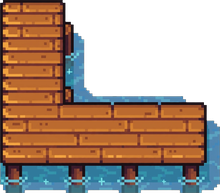
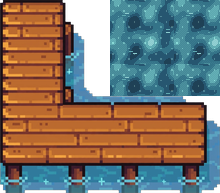
Dock + extendable homes + full world reset (#22)
2x2 dock with a water corner (auto-flipped to the shore, water baked into
the empty quadrant), profession homes extendable to hold up to 5 villagers,
and a full world reset (WORLD_EPOCH 2->3, shared room -r3->-r4). Accounts
wiped separately via the D1 players-table delete.

Changed region(s): [[0.4909, 0.0, 1.0, 0.4974]]

diff --git a/emberpine-valley.html b/emberpine-valley.html
@@ -375,7 +375,7 @@
 // match starts completely fresh — every emberpine:* key (save, legacy, identity,
 // account token) is discarded once, then the marker is stamped. Runs before anything
 // reads localStorage so even the ISLAND constant below sees the post-wipe state.
-const WORLD_EPOCH=2;
+const WORLD_EPOCH=3;
 try{if(+localStorage.getItem('emberpine:epoch')!==WORLD_EPOCH){
   Object.keys(localStorage).filter(k=>k.startsWith('emberpine:')).forEach(k=>localStorage.removeItem(k));
   localStorage.setItem('emberpine:epoch',String(WORLD_EPOCH));
@@ -589,7 +589,7 @@ const BUILDS={
   sawmill:{name:'Sawmill',ico:'🪚',cost:{wood:20},desc:'2 wood → 1 plank / 4s',rate:4},
   smelter:{name:'Smelter',ico:'🔥',cost:{stone:20,wood:10},desc:'1 ore + 1 wood → 1 ingot / 6s',rate:6},
   farm:{name:'Farm',ico:'🌾',cost:{wood:10},desc:'A farmer villager grows wheat here'},
-  dock:{name:'Dock',ico:'🎣',cost:{plank:8},desc:'A fisher villager casts lines here — place it beside water'},
+  dock:{name:'Dock',ico:'🎣',cost:{plank:8},desc:'A fisher villager casts lines here — one corner reaches over the water'},
   bakery:{name:'Bakery',ico:'🍞',cost:{plank:12,stone:10},desc:'2 wheat → bread · wheat + 2 berry + egg → pie / 5s',rate:5},
   workshop:{name:'Workshop',ico:'🛠️',cost:{plank:16,ingot:4},desc:'2 plank + ingot → tool (villagers 60% faster) · 2 leather + rope + ingot → backpack (+10 storage) / 8s',rate:8},
   kiln:{name:'Kiln',ico:'🔥',cost:{stone:20,wood:10},desc:'2 clay + 1 wood → brick · 2 wood → charcoal / 5s',rate:5},
@@ -644,13 +644,14 @@ const BUILDS={
   gnome:{name:'Garden Gnome',ico:'🧙',cost:{stone:1,ore:1},desc:'He judges silently',decor:5},
 };
 // ===== building footprints (tiles wide × tall). Anchor tile is the TOP-LEFT of the footprint. =====
-// AI-worked tiles (farm/dock) and small props stay 1×1; homes/production/pens/big-civic get room to breathe.
+// The 1×1 farm plot & small props stay 1×1; homes/production/pens/big-civic get room to breathe.
+// The dock is 2×2 with one corner over water (a pier reaching the shore).
 const FOOT={
   cottage:[2,2],house:[2,2],manor:[2,2],
   lumberlodge:[2,2],foragerhut:[2,2],farmhouse:[2,2],fishershack:[2,2],masonhouse:[2,2],butchery:[2,2],shepherdhut:[2,2],haulerpost:[2,2],guardhouse:[2,2],
   toolsmithy:[2,2],weaponsmithy:[2,2],armory:[2,2],leatherhouse:[2,2],library:[2,2],clerichouse:[2,2],fletcherhouse:[2,2],maproom:[2,2],
   sawmill:[2,2],smelter:[2,2],bakery:[2,2],workshop:[2,2],kiln:[2,2],glassworks:[2,2],forge:[2,2],loom:[2,2],gilder:[2,2],fishmonger:[2,2],smokehouse:[2,2],
-  sheeppen:[2,2],pigpen:[2,2],
+  sheeppen:[2,2],pigpen:[2,2],dock:[2,2],
   tavern:[2,2],plaza:[2,2],chapel:[2,2],market:[2,2],warehouse:[2,2],well:[2,2],
   watchtower:[1,2],hall:[2,2],
 };
@@ -1006,7 +1007,11 @@ const RECIPES={
 };
 function countB(type){let n=0;for(const k in S.buildings)if(S.buildings[k].type===type&&S.buildings[k].mine)n++;return n}
 function anyProfHome(){for(const k in S.buildings){const b=S.buildings[k];if(b.mine&&BUILDS[b.type]&&BUILDS[b.type].prof)return true}return false}
-function popCap(){let cap=2;for(const k in S.buildings){const b=S.buildings[k];if(b.mine&&BUILDS[b.type]&&BUILDS[b.type].home)cap+=BUILDS[b.type].cap}return cap}
+// a home's effective bed count: base cap + one per upgrade level, capped at 5
+function homeCap(b){const B=BUILDS[b.type];if(!B||!B.home)return 0;return Math.min(5,(B.cap||1)+((b.lvl||1)-1))}
+// cost to extend a home by one bed (null when already at 5) — scales with level
+function homeUpCost(b){const B=BUILDS[b.type];if(!B||!B.prof||homeCap(b)>=5)return null;const l=b.lvl||1;return{plank:6+l*4,stone:2+l*3,bread:l*2}}
+function popCap(){let cap=2;for(const k in S.buildings){const b=S.buildings[k];if(b.mine&&BUILDS[b.type]&&BUILDS[b.type].home)cap+=homeCap(b)}return cap}
 function homeless(){return S.villagers.filter(v=>!v.home||(v.home!=='hall'&&!S.buildings[v.home]))}
 function professionAt(bKey){   // the job a home confers, or null for legacy/hall homes
   const b=bKey==='hall'?null:S.buildings[bKey];
@@ -1018,7 +1023,7 @@ function stampProf(v,bKey){   // give a villager the profession of the home they
 }
 function moveIn(bKey){
   const b=S.buildings[bKey];if(!b||!BUILDS[b.type]||!BUILDS[b.type].home)return;
-  let free=BUILDS[b.type].cap - S.villagers.filter(v=>v.home===bKey).length - S.spawnQ.filter(q=>q.home===bKey).length;
+  let free=homeCap(b) - S.villagers.filter(v=>v.home===bKey).length - S.spawnQ.filter(q=>q.home===bKey).length;
   if(free<=0)return;
   const hs=homeless().sort((a,c)=>((a.x-b.x)**2+(a.y-b.y)**2)-((c.x-b.x)**2+(c.y-b.y)**2));
   for(const v of hs){if(free<=0)break;v.home=bKey;stampProf(v,bKey);free--}
@@ -1162,18 +1167,24 @@ function placeBuilding(type,x,y){
   const B=BUILDS[type];
   const[fw,fh]=foot(type);
   if(!canAfford(B.cost)){toast('Not enough materials');return}
-  // every footprint tile must be on land, clear of resources/buildings, and not the Hall/Wonder/you
+  // dock: 2x2 straddling the shore - exactly one corner over water, the rest buildable land
+  const isDock=type==='dock'; let dockWC=-1;
+  if(isDock){ const cn=[[0,0],[1,0],[0,1],[1,1]]; let wn=0;
+    for(let i=0;i<4;i++)if(terrAt(x+cn[i][0],y+cn[i][1])===0){wn++;dockWC=i;}
+    if(wn!==1){toast('The dock needs one corner over water');return} }
+  // every footprint tile on land (dock water corner excepted), clear, not Hall/you
   for(let dy=0;dy<fh;dy++)for(let dx=0;dx<fw;dx++){
+    if(isDock&&terrAt(x+dx,y+dy)===0){if(buildingAt(x+dx,y+dy)){toast('Cannot build there');return}continue;}
     const tx=x+dx,ty=y+dy;
     if(terrAt(tx,ty)===0){toast(frozenNow()?'The ice is too thin to build on \u{1F9CA}':'Can\u2019t build on water');return}
     if(!walkable(tx,ty)||resAt(tx,ty)||buildingAt(tx,ty)||(tx===HALL.x&&ty===HALL.y)){toast('Can\u2019t build there \u2014 needs '+fw+'\u00d7'+fh+' clear tiles');return}
     if(type!=='path'&&Math.floor(S.me.x)===tx&&Math.floor(S.me.y)===ty){toast('You\u2019re standing there!');return}
   }
-  if(type==='dock'&&![[1,0],[-1,0],[0,1],[0,-1]].some(([dx,dy])=>terrAt(x+dx,y+dy)===0)){toast('The dock must touch water 🌊');return}
   for(const[k,v]of Object.entries(B.cost))S.inv[k]-=v;
   const rec={type,x,y,w:fw,h:fh,mine:true,bt:now()};
+  if(isDock)rec.wc=dockWC;
   S.buildings[key(x,y)]=rec;occDirty();syncBldSoon();
-  netSend({t:'bld',k:key(x,y),e:{t:rec.bt,type,w:fw,h:fh,owner:S.me.id,onm:S.me.name}});
+  netSend({t:'bld',k:key(x,y),e:{t:rec.bt,type,w:fw,h:fh,wc:isDock?dockWC:undefined,owner:S.me.id,onm:S.me.name}});
   if(B.home)moveIn(key(x,y));
   S.stats.b[type]=(S.stats.b[type]||0)+1;if(S.legacy){S.legacy.b[type]=(S.legacy.b[type]||0)+1;saveLegacySoon()}S.score+=15;sfx('build');spawnBurst(x,y,'#e8a33d',10);questTick();
   toast(B.name+' built!');
@@ -1679,7 +1690,12 @@ function drawBuilding(b,sx,sy,sz){
   if(img&&img.ready){
     shadow();
     const dh=W*img.naturalHeight/Math.max(1,img.naturalWidth);
-    cx.drawImage(img,sx,baseY-dh,W,dh);
+    if(b.type==='dock'&&b.wc!=null){ // mirror the pier so its water corner (art default: top-right) matches the shore
+      const fx=(b.wc===0||b.wc===2)?-1:1, fy=(b.wc===2||b.wc===3)?-1:1;
+      cx.save();cx.translate(sx+W/2,baseY-dh/2);cx.scale(fx,fy);cx.drawImage(img,-W/2,-dh/2,W,dh);cx.restore();
+    }else{
+      cx.drawImage(img,sx,baseY-dh,W,dh);
+    }
     fabStatus(b,sx,sy,sz);ghost(sx,baseY-dh,W,dh);
     return;
   }
@@ -1928,11 +1944,13 @@ function render(){
     const[fw,fh]=foot(S.buildSel);
     const sx=(hoverTile.x-S.cam.x)*TSZ+VW/2, sy=(hoverTile.y-S.cam.y)*TSZ+VH/2;
     let ok=true;   // whole footprint must be buildable
+    const gDock=S.buildSel==='dock';
+    if(gDock){ let wn=0; for(const [dx,dy] of [[0,0],[1,0],[0,1],[1,1]])if(terrAt(hoverTile.x+dx,hoverTile.y+dy)===0)wn++; if(wn!==1)ok=false; }
     for(let dy=0;dy<fh&&ok;dy++)for(let dx=0;dx<fw&&ok;dx++){
       const tx=hoverTile.x+dx,ty=hoverTile.y+dy;
+      if(gDock&&terrAt(tx,ty)===0){ if(buildingAt(tx,ty))ok=false; continue; } // dock's water corner is allowed
       if(!walkable(tx,ty)||resAt(tx,ty)||buildingAt(tx,ty)||(tx===HALL.x&&ty===HALL.y)||terrAt(tx,ty)===0)ok=false;
     }
-    if(S.buildSel==='dock')ok=ok&&[[1,0],[-1,0],[0,1],[0,-1]].some(([dx,dy])=>terrAt(hoverTile.x+dx,hoverTile.y+dy)===0);
     cx.fillStyle=ok?'rgba(232,163,61,.4)':'rgba(176,86,59,.45)';
     cx.fillRect(sx,sy,TSZ*fw,TSZ*fh);
     cx.strokeStyle='#2b2620';cx.strokeRect(sx,sy,TSZ*fw,TSZ*fh);
@@ -2493,9 +2511,14 @@ function openBuildingPopup(b,px,py){
     }else{
     const occ=S.villagers.filter(v=>v.home===key(b.x,b.y));
     const stLbl=v=>isInside(v)?'asleep 😴':({working:'working ⚒️',toWork:'heading to work 👣',toHall:'hauling 📦',toCrate:'stashing 📦',sleep:'dozing off 😴',idle:'resting'}[v.state]||'about town');
-    extra='<div class="desc" style="text-align:left">🛏️ Beds '+occ.length+'/'+B.cap+
+    extra='<div class="desc" style="text-align:left">🛏️ Beds '+occ.length+'/'+homeCap(b)+
       (occ.length?occ.map(v=>'<br><span style="color:'+v.color+'">●</span> <b>'+escapeHtml(v.name.split(' ')[0])+'</b> · '+JOBS[v.job].label+' Lv'+vLvl(v)+(v.perk?' ⭐':'')+(v.hungry?' 🥺':'')+'<br><span style="opacity:.65;font-size:11px">&nbsp;&nbsp;&nbsp;'+stLbl(v)+'</span>').join(''):'<br><span style="opacity:.7">Empty — settlers arriving</span>')+'</div>';
     if(occ.length)extra+='<button id="knockBtn" class="wgive">🚪 Knock</button>';
+    const huc=homeUpCost(b);   // extend a profession home to hold one more of the same villager (up to 5)
+    if(B.prof){
+      if(huc)extra+='<button id="homeUpBtn" class="wgive"'+(canAfford(huc)?'':' disabled')+'>🛏️ Extend to '+(homeCap(b)+1)+' beds · '+costStr(huc)+'</button>';
+      else extra+='<div class="desc" style="opacity:.7">🏡 Fully extended · 5 beds</div>';
+    }
     const next=NEXT_HOME[b.type];
     if(next&&S.town.tier>=(TIER[next]||0)){
       extra+='<button id="upgradeBtn" class="wgive"'+(canAfford(BUILDS[next].cost)?'':' disabled')+'>Upgrade → '+BUILDS[next].name+' · '+costStr(BUILDS[next].cost)+'</button>';
@@ -2583,6 +2606,19 @@ function openBuildingPopup(b,px,py){
     renderHUD();questTick();saveSoon();
     openBuildingPopup(b,px,py);
   };
+  const hup=popup.querySelector('#homeUpBtn');
+  if(hup)hup.onclick=()=>{
+    const uc=homeUpCost(b);if(!uc||!canAfford(uc))return;
+    for(const[k,v]of Object.entries(uc))S.inv[k]-=v;
+    b.lvl=(b.lvl||1)+1;S.score+=10;b.sv=(b.sv||15)+10;
+    sfx('build');spawnBurst(b.x,b.y,'#e8a33d',10);
+    moveIn(key(b.x,b.y));   // a new villager of this profession moves into the extra bed
+    toast('🛏️ '+BUILDS[b.type].name+' extended — now '+homeCap(b)+' beds');
+    occDirty();syncBldSoon();renderHUD();renderBuildBar();questTick();
+    netSend({t:'bld',k:key(b.x,b.y),e:{t:b.bt||0,type:b.type,w:bW(b),h:bH(b),wc:b.wc,lvl:b.lvl,owner:S.me.id,onm:S.me.name}});
+    saveSoon();
+    openBuildingPopup(b,px,py);
+  };
   const kb=popup.querySelector('#knockBtn');
   if(kb)kb.onclick=()=>{
     const occ=S.villagers.filter(v=>v.home===key(b.x,b.y));
@@ -2615,7 +2651,7 @@ function openBuildingPopup(b,px,py){
     b.type=next;S.stats.b[next]=(S.stats.b[next]||0)+1;if(S.legacy){S.legacy.b[next]=(S.legacy.b[next]||0)+1;saveLegacySoon()}S.score+=15;b.sv=(b.sv||15)+15;
     sfx('build');spawnBurst(b.x,b.y,'#e8a33d',10);
     moveIn(key(b.x,b.y));renderHUD();renderBuildBar();questTick();checkTownTier();syncBldSoon();saveSoon();
-    netSend({t:'bld',k:key(b.x,b.y),e:{t:b.bt||0,type:b.type,w:bW(b),h:bH(b),owner:S.me.id,onm:S.me.name}});
+    netSend({t:'bld',k:key(b.x,b.y),e:{t:b.bt||0,type:b.type,w:bW(b),h:bH(b),wc:b.wc,owner:S.me.id,onm:S.me.name}});
     openBuildingPopup(b,px,py);
   };
   const db=popup.querySelector('#demolishBtn');
@@ -2741,7 +2777,7 @@ async function saveGame(){
   await store.set('save-v1',{island:ISLAND,raid:S.raid,inv:S.inv,name:S.me.name,id:S.me.id,x:S.me.x,y:S.me.y,score:S.score,won:S.won,msgShown:S.msgShown,quest:S.quest,stats:S.stats,muted:S.muted,wonderRewarded:!!S.wonderRewarded,
     monu:S.monu, playSec:S.playSec, town:S.town, lastMeal:S.lastMeal,
     villagers:S.villagers.map(v=>({name:v.name,color:v.color,job:v.job,hasTool:v.hasTool,xp:v.xp||0,txp:v.txp||0,home:v.home||null,hungry:!!v.hungry,perk:v.perk||null})),
-    buildings:Object.values(S.buildings).filter(b=>b.mine).map(b=>({type:b.type,x:b.x,y:b.y,w:bW(b),h:bH(b),store:b.store,sv:b.sv,bt:b.bt||0,lvl:b.lvl||1}))});
+    buildings:Object.values(S.buildings).filter(b=>b.mine).map(b=>({type:b.type,x:b.x,y:b.y,w:bW(b),h:bH(b),wc:b.wc,store:b.store,sv:b.sv,bt:b.bt||0,lvl:b.lvl||1}))});
 }
 async function loadGame(){
   let s=await store.get('save-v1');
@@ -2820,7 +2856,7 @@ function applyBldEntry(k,e){   // shared merge rules for one tile entry (poll + 
   if(!cur||(!cur.mine&&(cur.type!==e.type||(cur.lvl||1)!==(e.lvl||1)||(cur.w||1)!==(e.w||1)))){
     const[x,y]=k.split(',').map(Number);
     // missing w,h means a pre-footprint client/placement → 1×1 (what that client sees), never overlap
-    S.buildings[k]={type:e.type,x,y,w:e.w||1,h:e.h||1,mine:false,owner:e.owner,onm:e.onm,bt:e.t||0,lvl:e.lvl||1};
+    S.buildings[k]={type:e.type,x,y,w:e.w||1,h:e.h||1,wc:e.wc,mine:false,owner:e.owner,onm:e.onm,bt:e.t||0,lvl:e.lvl||1};
     occDirty();
     return true;
   }
@@ -2837,7 +2873,7 @@ async function syncBuildings(){
       if(!e.rm&&e.owner===S.me.id&&(!S.buildings[k]||!S.buildings[k].mine)){m[k]={rm:now(),owner:S.me.id};dirty=true}}
     for(const k in S.buildings){const b=S.buildings[k];if(!b.mine)continue;
       const e=m[k];
-      if(!e||e.rm||e.owner!==S.me.id||e.type!==b.type||(e.lvl||1)!==(b.lvl||1)){m[k]={t:b.bt||0,type:b.type,w:bW(b),h:bH(b),lvl:b.lvl||1,owner:S.me.id,onm:S.me.name};dirty=true}}
+      if(!e||e.rm||e.owner!==S.me.id||e.type!==b.type||(e.lvl||1)!==(b.lvl||1)){m[k]={t:b.bt||0,type:b.type,w:bW(b),h:bH(b),wc:b.wc,lvl:b.lvl||1,owner:S.me.id,onm:S.me.name};dirty=true}}
     if(dirty)await store.set('bld',m,true);
     if(changed){renderBuildBar();beautyDirty()}
   }catch(e){}
@@ -3108,11 +3144,11 @@ let wsChat=[],lastStoreMsgs=[],netGiftSeen={};
 function netConnect(){
   if(!NET.host||NET.ws)return;
   try{
-    const w=new WebSocket(NET.host.replace(/\/+$/,'')+'/party/'+encodeURIComponent(SEED_STR+'-r3'));   // -r3: fresh shared world for the accounts update (old rooms go dormant)
+    const w=new WebSocket(NET.host.replace(/\/+$/,'')+'/party/'+encodeURIComponent(SEED_STR+'-r4'));   // -r4: fresh shared world (full reset; old rooms go dormant)
     NET.ws=w;
     w.onopen=()=>{NET.ok=true;NET.tries=0;toast('\u{1F517} Connected to the valley relay');
       netSendPos();
-      for(const k in S.buildings){const b=S.buildings[k];if(b.mine)netSend({t:'bld',k,e:{t:b.bt||0,type:b.type,w:bW(b),h:bH(b),owner:S.me.id,onm:S.me.name}})}
+      for(const k in S.buildings){const b=S.buildings[k];if(b.mine)netSend({t:'bld',k,e:{t:b.bt||0,type:b.type,w:bW(b),h:bH(b),wc:b.wc,owner:S.me.id,onm:S.me.name}})}
     };
     w.onclose=()=>{const was=NET.ok;NET.ok=false;NET.ws=null;
       if(was)toast('\u{1F50C} Relay connection lost — falling back to slow sync');

diff --git a/index.html b/index.html
@@ -375,7 +375,7 @@
 // match starts completely fresh — every emberpine:* key (save, legacy, identity,
 // account token) is discarded once, then the marker is stamped. Runs before anything
 // reads localStorage so even the ISLAND constant below sees the post-wipe state.
-const WORLD_EPOCH=2;
+const WORLD_EPOCH=3;
 try{if(+localStorage.getItem('emberpine:epoch')!==WORLD_EPOCH){
   Object.keys(localStorage).filter(k=>k.startsWith('emberpine:')).forEach(k=>localStorage.removeItem(k));
   localStorage.setItem('emberpine:epoch',String(WORLD_EPOCH));
@@ -589,7 +589,7 @@ const BUILDS={
   sawmill:{name:'Sawmill',ico:'🪚',cost:{wood:20},desc:'2 wood → 1 plank / 4s',rate:4},
   smelter:{name:'Smelter',ico:'🔥',cost:{stone:20,wood:10},desc:'1 ore + 1 wood → 1 ingot / 6s',rate:6},
   farm:{name:'Farm',ico:'🌾',cost:{wood:10},desc:'A farmer villager grows wheat here'},
-  dock:{name:'Dock',ico:'🎣',cost:{plank:8},desc:'A fisher villager casts lines here — place it beside water'},
+  dock:{name:'Dock',ico:'🎣',cost:{plank:8},desc:'A fisher villager casts lines here — one corner reaches over the water'},
   bakery:{name:'Bakery',ico:'🍞',cost:{plank:12,stone:10},desc:'2 wheat → bread · wheat + 2 berry + egg → pie / 5s',rate:5},
   workshop:{name:'Workshop',ico:'🛠️',cost:{plank:16,ingot:4},desc:'2 plank + ingot → tool (villagers 60% faster) · 2 leather + rope + ingot → backpack (+10 storage) / 8s',rate:8},
   kiln:{name:'Kiln',ico:'🔥',cost:{stone:20,wood:10},desc:'2 clay + 1 wood → brick · 2 wood → charcoal / 5s',rate:5},
@@ -644,13 +644,14 @@ const BUILDS={
   gnome:{name:'Garden Gnome',ico:'🧙',cost:{stone:1,ore:1},desc:'He judges silently',decor:5},
 };
 // ===== building footprints (tiles wide × tall). Anchor tile is the TOP-LEFT of the footprint. =====
-// AI-worked tiles (farm/dock) and small props stay 1×1; homes/production/pens/big-civic get room to breathe.
+// The 1×1 farm plot & small props stay 1×1; homes/production/pens/big-civic get room to breathe.
+// The dock is 2×2 with one corner over water (a pier reaching the shore).
 const FOOT={
   cottage:[2,2],house:[2,2],manor:[2,2],
   lumberlodge:[2,2],foragerhut:[2,2],farmhouse:[2,2],fishershack:[2,2],masonhouse:[2,2],butchery:[2,2],shepherdhut:[2,2],haulerpost:[2,2],guardhouse:[2,2],
   toolsmithy:[2,2],weaponsmithy:[2,2],armory:[2,2],leatherhouse:[2,2],library:[2,2],clerichouse:[2,2],fletcherhouse:[2,2],maproom:[2,2],
   sawmill:[2,2],smelter:[2,2],bakery:[2,2],workshop:[2,2],kiln:[2,2],glassworks:[2,2],forge:[2,2],loom:[2,2],gilder:[2,2],fishmonger:[2,2],smokehouse:[2,2],
-  sheeppen:[2,2],pigpen:[2,2],
+  sheeppen:[2,2],pigpen:[2,2],dock:[2,2],
   tavern:[2,2],plaza:[2,2],chapel:[2,2],market:[2,2],warehouse:[2,2],well:[2,2],
   watchtower:[1,2],hall:[2,2],
 };
@@ -1006,7 +1007,11 @@ const RECIPES={
 };
 function countB(type){let n=0;for(const k in S.buildings)if(S.buildings[k].type===type&&S.buildings[k].mine)n++;return n}
 function anyProfHome(){for(const k in S.buildings){const b=S.buildings[k];if(b.mine&&BUILDS[b.type]&&BUILDS[b.type].prof)return true}return false}
-function popCap(){let cap=2;for(const k in S.buildings){const b=S.buildings[k];if(b.mine&&BUILDS[b.type]&&BUILDS[b.type].home)cap+=BUILDS[b.type].cap}return cap}
+// a home's effective bed count: base cap + one per upgrade level, capped at 5
+function homeCap(b){const B=BUILDS[b.type];if(!B||!B.home)return 0;return Math.min(5,(B.cap||1)+((b.lvl||1)-1))}
+// cost to extend a home by one bed (null when already at 5) — scales with level
+function homeUpCost(b){const B=BUILDS[b.type];if(!B||!B.prof||homeCap(b)>=5)return null;const l=b.lvl||1;return{plank:6+l*4,stone:2+l*3,bread:l*2}}
+function popCap(){let cap=2;for(const k in S.buildings){const b=S.buildings[k];if(b.mine&&BUILDS[b.type]&&BUILDS[b.type].home)cap+=homeCap(b)}return cap}
 function homeless(){return S.villagers.filter(v=>!v.home||(v.home!=='hall'&&!S.buildings[v.home]))}
 function professionAt(bKey){   // the job a home confers, or null for legacy/hall homes
   const b=bKey==='hall'?null:S.buildings[bKey];
@@ -1018,7 +1023,7 @@ function stampProf(v,bKey){   // give a villager the profession of the home they
 }
 function moveIn(bKey){
   const b=S.buildings[bKey];if(!b||!BUILDS[b.type]||!BUILDS[b.type].home)return;
-  let free=BUILDS[b.type].cap - S.villagers.filter(v=>v.home===bKey).length - S.spawnQ.filter(q=>q.home===bKey).length;
+  let free=homeCap(b) - S.villagers.filter(v=>v.home===bKey).length - S.spawnQ.filter(q=>q.home===bKey).length;
   if(free<=0)return;
   const hs=homeless().sort((a,c)=>((a.x-b.x)**2+(a.y-b.y)**2)-((c.x-b.x)**2+(c.y-b.y)**2));
   for(const v of hs){if(free<=0)break;v.home=bKey;stampProf(v,bKey);free--}
@@ -1162,18 +1167,24 @@ function placeBuilding(type,x,y){
   const B=BUILDS[type];
   const[fw,fh]=foot(type);
   if(!canAfford(B.cost)){toast('Not enough materials');return}
-  // every footprint tile must be on land, clear of resources/buildings, and not the Hall/Wonder/you
+  // dock: 2x2 straddling the shore - exactly one corner over water, the rest buildable land
+  const isDock=type==='dock'; let dockWC=-1;
+  if(isDock){ const cn=[[0,0],[1,0],[0,1],[1,1]]; let wn=0;
+    for(let i=0;i<4;i++)if(terrAt(x+cn[i][0],y+cn[i][1])===0){wn++;dockWC=i;}
+    if(wn!==1){toast('The dock needs one corner over water');return} }
+  // every footprint tile on land (dock water corner excepted), clear, not Hall/you
   for(let dy=0;dy<fh;dy++)for(let dx=0;dx<fw;dx++){
+    if(isDock&&terrAt(x+dx,y+dy)===0){if(buildingAt(x+dx,y+dy)){toast('Cannot build there');return}continue;}
     const tx=x+dx,ty=y+dy;
     if(terrAt(tx,ty)===0){toast(frozenNow()?'The ice is too thin to build on \u{1F9CA}':'Can\u2019t build on water');return}
     if(!walkable(tx,ty)||resAt(tx,ty)||buildingAt(tx,ty)||(tx===HALL.x&&ty===HALL.y)){toast('Can\u2019t build there \u2014 needs '+fw+'\u00d7'+fh+' clear tiles');return}
     if(type!=='path'&&Math.floor(S.me.x)===tx&&Math.floor(S.me.y)===ty){toast('You\u2019re standing there!');return}
   }
-  if(type==='dock'&&![[1,0],[-1,0],[0,1],[0,-1]].some(([dx,dy])=>terrAt(x+dx,y+dy)===0)){toast('The dock must touch water 🌊');return}
   for(const[k,v]of Object.entries(B.cost))S.inv[k]-=v;
   const rec={type,x,y,w:fw,h:fh,mine:true,bt:now()};
+  if(isDock)rec.wc=dockWC;
   S.buildings[key(x,y)]=rec;occDirty();syncBldSoon();
-  netSend({t:'bld',k:key(x,y),e:{t:rec.bt,type,w:fw,h:fh,owner:S.me.id,onm:S.me.name}});
+  netSend({t:'bld',k:key(x,y),e:{t:rec.bt,type,w:fw,h:fh,wc:isDock?dockWC:undefined,owner:S.me.id,onm:S.me.name}});
   if(B.home)moveIn(key(x,y));
   S.stats.b[type]=(S.stats.b[type]||0)+1;if(S.legacy){S.legacy.b[type]=(S.legacy.b[type]||0)+1;saveLegacySoon()}S.score+=15;sfx('build');spawnBurst(x,y,'#e8a33d',10);questTick();
   toast(B.name+' built!');
@@ -1679,7 +1690,12 @@ function drawBuilding(b,sx,sy,sz){
   if(img&&img.ready){
     shadow();
     const dh=W*img.naturalHeight/Math.max(1,img.naturalWidth);
-    cx.drawImage(img,sx,baseY-dh,W,dh);
+    if(b.type==='dock'&&b.wc!=null){ // mirror the pier so its water corner (art default: top-right) matches the shore
+      const fx=(b.wc===0||b.wc===2)?-1:1, fy=(b.wc===2||b.wc===3)?-1:1;
+      cx.save();cx.translate(sx+W/2,baseY-dh/2);cx.scale(fx,fy);cx.drawImage(img,-W/2,-dh/2,W,dh);cx.restore();
+    }else{
+      cx.drawImage(img,sx,baseY-dh,W,dh);
+    }
     fabStatus(b,sx,sy,sz);ghost(sx,baseY-dh,W,dh);
     return;
   }
@@ -1928,11 +1944,13 @@ function render(){
     const[fw,fh]=foot(S.buildSel);
     const sx=(hoverTile.x-S.cam.x)*TSZ+VW/2, sy=(hoverTile.y-S.cam.y)*TSZ+VH/2;
     let ok=true;   // whole footprint must be buildable
+    const gDock=S.buildSel==='dock';
+    if(gDock){ let wn=0; for(const [dx,dy] of [[0,0],[1,0],[0,1],[1,1]])if(terrAt(hoverTile.x+dx,hoverTile.y+dy)===0)wn++; if(wn!==1)ok=false; }
     for(let dy=0;dy<fh&&ok;dy++)for(let dx=0;dx<fw&&ok;dx++){
       const tx=hoverTile.x+dx,ty=hoverTile.y+dy;
+      if(gDock&&terrAt(tx,ty)===0){ if(buildingAt(tx,ty))ok=false; continue; } // dock's water corner is allowed
       if(!walkable(tx,ty)||resAt(tx,ty)||buildingAt(tx,ty)||(tx===HALL.x&&ty===HALL.y)||terrAt(tx,ty)===0)ok=false;
     }
-    if(S.buildSel==='dock')ok=ok&&[[1,0],[-1,0],[0,1],[0,-1]].some(([dx,dy])=>terrAt(hoverTile.x+dx,hoverTile.y+dy)===0);
     cx.fillStyle=ok?'rgba(232,163,61,.4)':'rgba(176,86,59,.45)';
     cx.fillRect(sx,sy,TSZ*fw,TSZ*fh);
     cx.strokeStyle='#2b2620';cx.strokeRect(sx,sy,TSZ*fw,TSZ*fh);
@@ -2493,9 +2511,14 @@ function openBuildingPopup(b,px,py){
     }else{
     const occ=S.villagers.filter(v=>v.home===key(b.x,b.y));
     const stLbl=v=>isInside(v)?'asleep 😴':({working:'working ⚒️',toWork:'heading to work 👣',toHall:'hauling 📦',toCrate:'stashing 📦',sleep:'dozing off 😴',idle:'resting'}[v.state]||'about town');
-    extra='<div class="desc" style="text-align:left">🛏️ Beds '+occ.length+'/'+B.cap+
+    extra='<div class="desc" style="text-align:left">🛏️ Beds '+occ.length+'/'+homeCap(b)+
       (occ.length?occ.map(v=>'<br><span style="color:'+v.color+'">●</span> <b>'+escapeHtml(v.name.split(' ')[0])+'</b> · '+JOBS[v.job].label+' Lv'+vLvl(v)+(v.perk?' ⭐':'')+(v.hungry?' 🥺':'')+'<br><span style="opacity:.65;font-size:11px">&nbsp;&nbsp;&nbsp;'+stLbl(v)+'</span>').join(''):'<br><span style="opacity:.7">Empty — settlers arriving</span>')+'</div>';
     if(occ.length)extra+='<button id="knockBtn" class="wgive">🚪 Knock</button>';
+    const huc=homeUpCost(b);   // extend a profession home to hold one more of the same villager (up to 5)
+    if(B.prof){
+      if(huc)extra+='<button id="homeUpBtn" class="wgive"'+(canAfford(huc)?'':' disabled')+'>🛏️ Extend to '+(homeCap(b)+1)+' beds · '+costStr(huc)+'</button>';
+      else extra+='<div class="desc" style="opacity:.7">🏡 Fully extended · 5 beds</div>';
+    }
     const next=NEXT_HOME[b.type];
     if(next&&S.town.tier>=(TIER[next]||0)){
       extra+='<button id="upgradeBtn" class="wgive"'+(canAfford(BUILDS[next].cost)?'':' disabled')+'>Upgrade → '+BUILDS[next].name+' · '+costStr(BUILDS[next].cost)+'</button>';
@@ -2583,6 +2606,19 @@ function openBuildingPopup(b,px,py){
     renderHUD();questTick();saveSoon();
     openBuildingPopup(b,px,py);
   };
+  const hup=popup.querySelector('#homeUpBtn');
+  if(hup)hup.onclick=()=>{
+    const uc=homeUpCost(b);if(!uc||!canAfford(uc))return;
+    for(const[k,v]of Object.entries(uc))S.inv[k]-=v;
+    b.lvl=(b.lvl||1)+1;S.score+=10;b.sv=(b.sv||15)+10;
+    sfx('build');spawnBurst(b.x,b.y,'#e8a33d',10);
+    moveIn(key(b.x,b.y));   // a new villager of this profession moves into the extra bed
+    toast('🛏️ '+BUILDS[b.type].name+' extended — now '+homeCap(b)+' beds');
+    occDirty();syncBldSoon();renderHUD();renderBuildBar();questTick();
+    netSend({t:'bld',k:key(b.x,b.y),e:{t:b.bt||0,type:b.type,w:bW(b),h:bH(b),wc:b.wc,lvl:b.lvl,owner:S.me.id,onm:S.me.name}});
+    saveSoon();
+    openBuildingPopup(b,px,py);
+  };
   const kb=popup.querySelector('#knockBtn');
   if(kb)kb.onclick=()=>{
     const occ=S.villagers.filter(v=>v.home===key(b.x,b.y));
@@ -2615,7 +2651,7 @@ function openBuildingPopup(b,px,py){
     b.type=next;S.stats.b[next]=(S.stats.b[next]||0)+1;if(S.legacy){S.legacy.b[next]=(S.legacy.b[next]||0)+1;saveLegacySoon()}S.score+=15;b.sv=(b.sv||15)+15;
     sfx('build');spawnBurst(b.x,b.y,'#e8a33d',10);
     moveIn(key(b.x,b.y));renderHUD();renderBuildBar();questTick();checkTownTier();syncBldSoon();saveSoon();
-    netSend({t:'bld',k:key(b.x,b.y),e:{t:b.bt||0,type:b.type,w:bW(b),h:bH(b),owner:S.me.id,onm:S.me.name}});
+    netSend({t:'bld',k:key(b.x,b.y),e:{t:b.bt||0,type:b.type,w:bW(b),h:bH(b),wc:b.wc,owner:S.me.id,onm:S.me.name}});
     openBuildingPopup(b,px,py);
   };
   const db=popup.querySelector('#demolishBtn');
@@ -2741,7 +2777,7 @@ async function saveGame(){
   await store.set('save-v1',{island:ISLAND,raid:S.raid,inv:S.inv,name:S.me.name,id:S.me.id,x:S.me.x,y:S.me.y,score:S.score,won:S.won,msgShown:S.msgShown,quest:S.quest,stats:S.stats,muted:S.muted,wonderRewarded:!!S.wonderRewarded,
     monu:S.monu, playSec:S.playSec, town:S.town, lastMeal:S.lastMeal,
     villagers:S.villagers.map(v=>({name:v.name,color:v.color,job:v.job,hasTool:v.hasTool,xp:v.xp||0,txp:v.txp||0,home:v.home||null,hungry:!!v.hungry,perk:v.perk||null})),
-    buildings:Object.values(S.buildings).filter(b=>b.mine).map(b=>({type:b.type,x:b.x,y:b.y,w:bW(b),h:bH(b),store:b.store,sv:b.sv,bt:b.bt||0,lvl:b.lvl||1}))});
+    buildings:Object.values(S.buildings).filter(b=>b.mine).map(b=>({type:b.type,x:b.x,y:b.y,w:bW(b),h:bH(b),wc:b.wc,store:b.store,sv:b.sv,bt:b.bt||0,lvl:b.lvl||1}))});
 }
 async function loadGame(){
   let s=await store.get('save-v1');
@@ -2820,7 +2856,7 @@ function applyBldEntry(k,e){   // shared merge rules for one tile entry (poll + 
   if(!cur||(!cur.mine&&(cur.type!==e.type||(cur.lvl||1)!==(e.lvl||1)||(cur.w||1)!==(e.w||1)))){
     const[x,y]=k.split(',').map(Number);
     // missing w,h means a pre-footprint client/placement → 1×1 (what that client sees), never overlap
-    S.buildings[k]={type:e.type,x,y,w:e.w||1,h:e.h||1,mine:false,owner:e.owner,onm:e.onm,bt:e.t||0,lvl:e.lvl||1};
+    S.buildings[k]={type:e.type,x,y,w:e.w||1,h:e.h||1,wc:e.wc,mine:false,owner:e.owner,onm:e.onm,bt:e.t||0,lvl:e.lvl||1};
     occDirty();
     return true;
   }
@@ -2837,7 +2873,7 @@ async function syncBuildings(){
       if(!e.rm&&e.owner===S.me.id&&(!S.buildings[k]||!S.buildings[k].mine)){m[k]={rm:now(),owner:S.me.id};dirty=true}}
     for(const k in S.buildings){const b=S.buildings[k];if(!b.mine)continue;
       const e=m[k];
-      if(!e||e.rm||e.owner!==S.me.id||e.type!==b.type||(e.lvl||1)!==(b.lvl||1)){m[k]={t:b.bt||0,type:b.type,w:bW(b),h:bH(b),lvl:b.lvl||1,owner:S.me.id,onm:S.me.name};dirty=true}}
+      if(!e||e.rm||e.owner!==S.me.id||e.type!==b.type||(e.lvl||1)!==(b.lvl||1)){m[k]={t:b.bt||0,type:b.type,w:bW(b),h:bH(b),wc:b.wc,lvl:b.lvl||1,owner:S.me.id,onm:S.me.name};dirty=true}}
     if(dirty)await store.set('bld',m,true);
     if(changed){renderBuildBar();beautyDirty()}
   }catch(e){}
@@ -3108,11 +3144,11 @@ let wsChat=[],lastStoreMsgs=[],netGiftSeen={};
 function netConnect(){
   if(!NET.host||NET.ws)return;
   try{
-    const w=new WebSocket(NET.host.replace(/\/+$/,'')+'/party/'+encodeURIComponent(SEED_STR+'-r3'));   // -r3: fresh shared world for the accounts update (old rooms go dormant)
+    const w=new WebSocket(NET.host.replace(/\/+$/,'')+'/party/'+encodeURIComponent(SEED_STR+'-r4'));   // -r4: fresh shared world (full reset; old rooms go dormant)
     NET.ws=w;
     w.onopen=()=>{NET.ok=true;NET.tries=0;toast('\u{1F517} Connected to the valley relay');
       netSendPos();
-      for(const k in S.buildings){const b=S.buildings[k];if(b.mine)netSend({t:'bld',k,e:{t:b.bt||0,type:b.type,w:bW(b),h:bH(b),owner:S.me.id,onm:S.me.name}})}
+      for(const k in S.buildings){const b=S.buildings[k];if(b.mine)netSend({t:'bld',k,e:{t:b.bt||0,type:b.type,w:bW(b),h:bH(b),wc:b.wc,owner:S.me.id,onm:S.me.name}})}
     };
     w.onclose=()=>{const was=NET.ok;NET.ok=false;NET.ws=null;
       if(was)toast('\u{1F50C} Relay connection lost — falling back to slow sync');